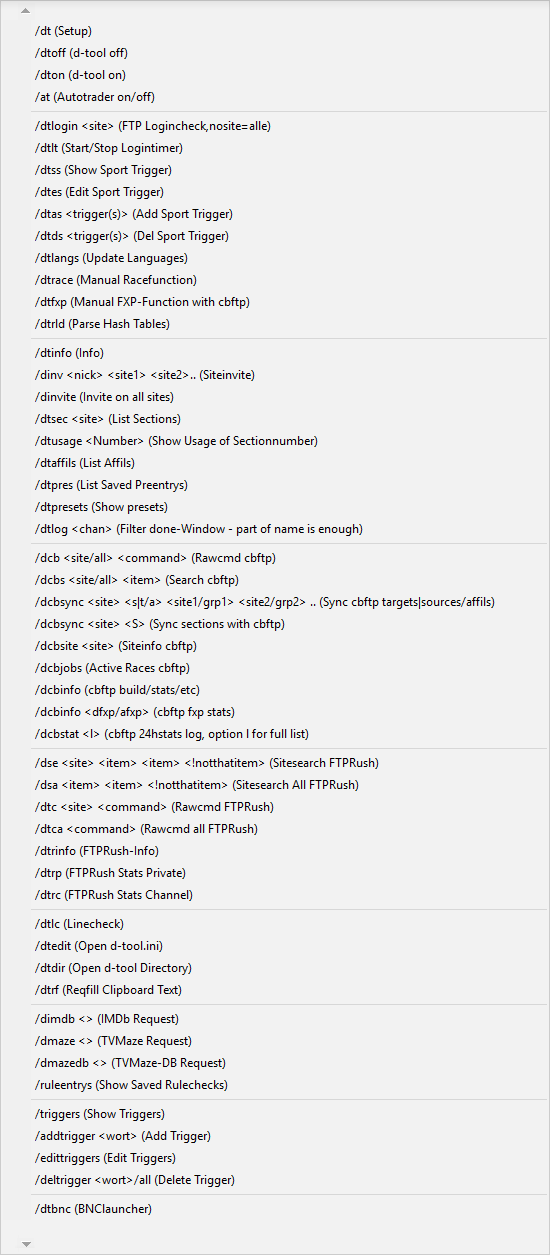
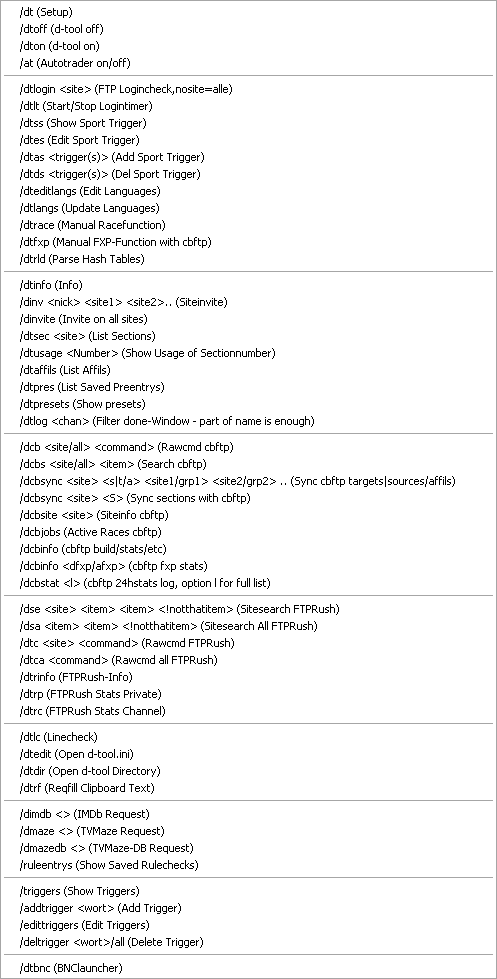
v10.1

Changed region(s): [[0.0, 0.0, 0.9054, 1.0], [0.996, 0.0, 1.0, 1.0]]

diff --git a/Commands.html b/Commands.html
@@ -130,7 +130,8 @@ body {
         <strong>/dtes </strong> - Sport Trigger bearbeiten<br />
         <strong>/dtas &lt;trigger(s)&gt;</strong> - Sport Trigger adden<br />
         <strong>/dtds</strong> <strong>&lt;trigger(s)&gt;</strong> - Sport Trigger löschen<br />
-        <strong>/dlangs - </strong>Manuelles updaten und anzeigen der Sprachen durch die Listen im d-tool Ordner, falls man sie sehen möchte oder angepasst hat. Upgedated werden die Listen sonst nur bei jedem mIRC Neustart.<br>
+        <strong>/dteditangs - </strong>Dialog zum Ändern der Einstellungen öffnen<br />
+        <strong>/dtlangs - </strong>Manuelles updaten und anzeigen der Sprachen durch die Listen im d-tool Ordner, falls man sie sehen möchte oder angepasst hat. Upgedated werden die Listen sonst nur bei jedem mIRC Neustart.<br>
         <strong>/dtrace - </strong>Manuelle Racefunktion (zum testen)<br>
         Vorher Release in die Zwischenablage kopieren und Sektion merken. Wahlweise <br />
         mit Precheck oder als  Simulation (bei Simulation wird nichts zum FTP Clienten gesendet).<br>
@@ -205,8 +206,9 @@ body {
     <td width="486" valign="top" align="left"><p><br />
         <br />
     </p>
-      <p><img src="Commands-Dateien/menu-commands.png" width="550" height="1255"></p>
-    <p>Kontextmenü &gt; d-tool &gt; Commands</p></td>
+      <p><img src="Commands-Dateien/menu-commands.png" width="497" height="979"><br />
+        <br />
+        Kontextmenü &gt; d-tool &gt; Commands</p></td>
   </tr>
   <tr>
     <td valign="top">&nbsp;</td>

diff --git a/Hotlinks.html b/Hotlinks.html
@@ -159,11 +159,11 @@ body,td,th {
       <p><span class="Grüntext" style="color: #BFFF40; font-weight: bold;">@d-tool Fenster<br />
         </span><span class="normalschrift"><span style="color: #BFFF40; font-weight: bold;"><br />
           </span></span><span class="Grüntext">Mausklick auf ein Suchergebnis</span><span class="normalschrift"><br />
-            <strong>STRG + LM</strong><br />
+            <strong> LM + STRG</strong><br />
             </span><span class="Normaltext">Es wird gefragt ob das Suchergebnis in den 
               Downloadordner geladen werden soll. Wenn für FTPRush noch kein Downloadordner 
               angegeben wurde wird auch danach gefragt, bei cbftp wird der Standard Download-Ordner von cbftp genommen</span><span class="normalschrift"><br />
-                <strong>SHIFT + LM</strong><br />
+                <strong>LM + SHIFT</strong><br />
                 </span><span class="Normaltext">Es wird gefragt ob dahin connected werden soll. Der Pfad wird auch in die Zwischenablage kopiert (nur FTPRush)</span><span class="normalschrift"><br />
                 <br />
                 </span><span class="normalschrift"><span class="Grüntext">Mausklick auf  Releasename</span><br />

diff --git a/index.html b/index.html
@@ -149,7 +149,7 @@ body {
      
       <a href="https://d--tool-github-io.translate.goog/index.html?_x_tr_sl=de&amp;_x_tr_tl=en&amp;_x_tr_hl=de&amp;_x_tr_pto=wapp" target="_parent" class="grautext">translate me</a><br />
       <a href="https://github.com/d-tool/d-tool.github.io/issues" target="_blank" class="grautext">bugreports</a></span></p></td>
-    <td width="228" valign="top"><p class="mini_text"><a href="Latest.html" class="link-normal">dt.v.10.0.3</a><br />
+    <td width="228" valign="top"><p class="mini_text"><a href="Latest.html" class="link-normal">dt.v.10.1</a><br />
         <br />
         <br />
       </p></td>
